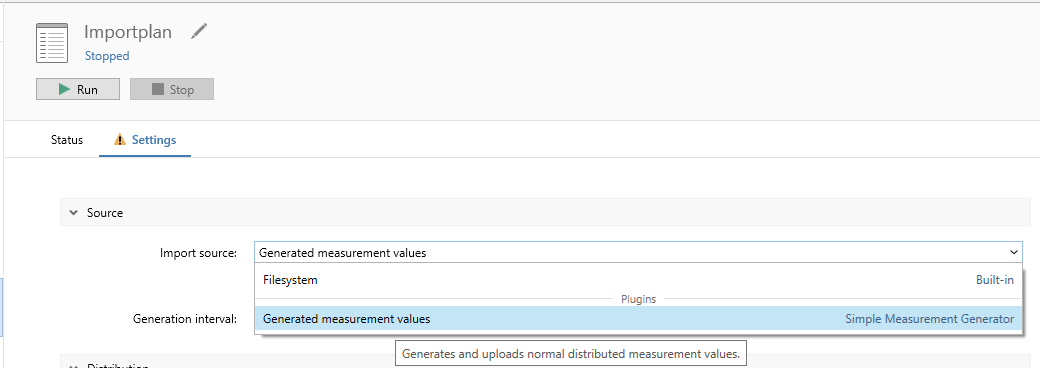
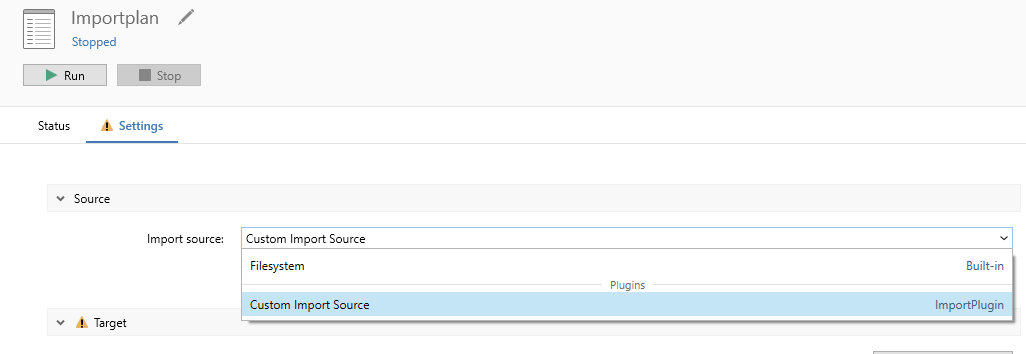
Adds getting started doc

diff --git a/docs/getting_started/5_import_automation.md b/docs/getting_started/5_import_automation.md
@@ -22,64 +22,7 @@ Notizen:
 - Schema mit voller URL auf GitHub bereitstellen
 --->
 
-This chapter describes what is required to create a minimal automation plug-in.
-
-## Manifest
-```json
-{
-  "$schema": "../schemas/manifest.schema.json",
-  "id": "Plugin1816",
-  "version": "1.0.0",
-  "title": "Title for the plugin",
-  "description": "This is a plugin, which is used for showing the manifest in the documentation.",
-  "provides": [
-    {
-      "type": "ImportAutomation",
-      "id": "ImportAutomation1888",
-      "title": "Module title",
-      "description": "Import automation module description."
-    }
-  ]
-}
-```
-The manifest describes your plugin content and defines the modules which are provided.
-
-### Plugin information
-**$schema:** The schema we provide to validate your manifest.\
-**id:** The unique identifier for this plugin. The plugin identifier must be unique overall installed plugins.\
-**version:** Your managed version of the plugin.\
-**title:** Title shown in plugin management view of Auto Importer.\
-<!---Bild einfügen vom plugin management view.-->
-**description:** Description shown in plugin management view of Auto Importer.\
-**provides:** Collection of module information.
-
-### Module information
-**type:** ImportAutomation or ImportFormat, see chapter [Module types]({% link docs/getting_started/3_module_type.md %}) for further information.\
-**id:** Unique identifer for this module, must be unique within the plugin.\
-**title:** Title shown in the module selection of plugin management view of Auto Importer.\
-**description:** Description shown in the module selection of plugin management view of Auto Importer.
-
-## IPlugin and IPluginContext
-IPlugin represents a PiWeb Auto Importer plugin. Here you register your modules with the Auto Importer.
-
-```c#
-using Zeiss.PiWeb.Import.Sdk;
-
-public class Plugin : IPlugin
-{
-    public Task Init(IPluginContext context)
-    {
-        context.RegisterImportAutomation("ImportAutomation19285", new ImportAutomation());
-
-        return Task.CompletedTask;
-    }
-}
-```
-
-**Init:** Initializes the plugin. Usually called during startup of the hosting application while showing a splash screen. Startup finishes when the returned task is completed. *RegisterImportAutomation* on *IPluginContext* is used to register your defined module with the system.
-
-{: .important }
-> The *id* of *RegisterImportAutomation* and *RegisterImportFormat* from *IPluginContext* needs to be identical with your manifest.
+This chapter describes what is required to create a minimal automation plug-in. Please read [Create your first plugin]({% link docs/getting_started/2_first_plugin.md %}) before, as it extends the information from there.
 
 ## IImportAutomation
 Represents a custom import automation provided as part of a plugin. Custom import automations substitute the full Auto Importer import pipeline with custom logic and are available as import sources in an import plan configuration.
@@ -87,55 +30,16 @@ Represents a custom import automation provided as part of a plugin. Custom impor
 ```c#
 using Zeiss.PiWeb.Import.Sdk.Modules.ImportAutomation;
 
-public class ImportAutomation : IImportAutomation
+public class MyImportModule : IImportAutomation
 {
     public Task<IImportRunner> CreateImportRunnerAsync(IImportRunnerContext context)
     {
-        return Task.FromResult<IImportRunner>(new ImportRunner(context));
-    }
-
-    public IAutomationConfiguration CreateConfiguration(IAutomationConfigurationContext context)
-    {
-        return new AutomationConfiguration(context.PropertyStorage);
+        return Task.FromResult<IImportRunner>(new MyImportRunner(context));
     }
 }
 ```
 
 **CreateImportRunnerAsync:** Creates a new import runner instance. An import runner is first created and then executed when an import plan is using this import automation as import source is started. Each import plan is expected to use a separate import runner instance. For this reason this method must never return the same *IImportRunner* instance twice. If the import runner cannot be created (e.g. because of invalid import plan settings), a *CreateImportRunnerException* can be thrown. The created instance will be disposed after the import plan is stopped.
-
-**CreateConfiguration:** Creates a new automation configuration instance. An automation configuration is first created when an import plan uses this import automation as import source. Each import plan is expected to use a separate automation configuration instance. For this reason this method must never return the same *IAutomationConfiguration* instance twice.
-
-## IAutomationConfiguration
-Represents an automation configuration. Automation configurations specify additional settings for an import automation an user can edit to affect the import automation behavior for an import plan.
-
-```c#
-using Zeiss.PiWeb.Import.Sdk.ConfigurationItems;
-using Zeiss.PiWeb.Import.Sdk.Modules.ImportAutomation;
-using Zeiss.PiWeb.Import.Sdk.PropertyStorage;
-
-public class AutomationConfiguration(IPropertyStorage storage) : IAutomationConfiguration
-{
-    private static readonly Section _ItemSection = new() {Title = "Test section", Priority = 0};
-
-    [ConfigurationItem]
-    private BoolConfigurationItem BoolItem { get; } = new BoolConfigurationItem(storage, "BoolDisable", true)
-    {
-        Title = "Use default UI texts",
-        Section = _ItemSection,
-        Tooltip = "If this item is checked the status item provides no text and the default text is used",
-        Priority = 1
-    };
-
-    public void Update()
-    {
-        // Here you can react to updates of configuration items.
-    }
-}
-```
-<!---
-**TODO Priority erklären, niedirg zu hoch**
-**TODO Link zu allen verfügbaren IConfigurationItems (plugin/fundamentals/6 ?)**
---->
 
 ## IImportRunner
 Is responsible for processing the cyclical import and reacting to problems and errors accordingly.

diff --git a/docs/getting_started/2_first_plugin.md b/docs/getting_started/2_first_plugin.md
@@ -13,8 +13,8 @@ Ziele:
 
 Inhalt:
 - C#-Project Template für Plugins nutzen
-        ○ Kurzbeschreibung Manifest-Inhalt und Anpassungen vornehmen (z.B. ID, Autor)
-        ○ IPlugin Implementierung beschreiben
+    - Kurzbeschreibung Manifest-Inhalt und Anpassungen vornehmen (z.B. ID, Autor)
+    - IPlugin Implementierung beschreiben
 - Plugin verwenden
     - Auto Importer mit Plugin und im Developer Mode starten
     - Plugin sollte in der Plugin-Übersicht gelistet sein
@@ -26,3 +26,89 @@ Inhalt:
 - Next steps
     - erwähnen, dass als nächstes Entscheidung bzgl. Modultyp notwendig ist
 --->
+
+This chapter describes what is required to create a minimal plug-in.
+
+## manifest.json
+```json
+{
+    "$schema": "../schemas/manifest.schema.json",
+    "id": "Zeiss.ImportPluginDemo",
+    "version": "1.0.0",
+    "title": "ImportPlugin",
+    "description": "Demonstrates the ability to add import sources to an import plan by implementing import modules.",
+    "author": "Carl Zeiss",
+    "contact": "info.metrology.de@zeiss.com",
+    "homepage": "https://www.zeiss.com/metrology/en/software/zeiss-piweb.html",
+    "issueTracker": "https://github.com/ZEISS-PiWeb/PiWeb-Import-Sdk/issues",
+    "licenseName": "BSD-3-Clause",
+    "licenseUrl": "https://github.com/ZEISS-PiWeb/PiWeb-Import-Sdk/blob/develop/LICENSE.txt",
+    "sourceCode": "https://github.com/ZEISS-PiWeb/PiWeb-Import-Sdk",
+    "documentation": "https://zeiss-piweb.github.io/PiWeb-Import-Sdk",
+    "provides": [
+        {
+            "type": "ImportAutomation",
+            "id": "MyImportModule",
+            "title": "Custom Import Source",
+            "description": "This import module does nothing and is only useful for testing import modules."
+        }
+    ]
+}
+```
+The manifest describes your plugin content and defines the modules which are provided.\
+**manifest.json** has to be in the root of your plugin folder.
+
+### Plugin information
+**$schema:** The schema we provide to validate your manifest.\
+**id:** The unique identifier for this plugin. The plugin identifier must be unique overall installed plugins.\
+**version:** Your managed version of the plugin.\
+**title:** Title shown in plugin management view of Auto Importer.\
+**description:** Description shown in plugin management view of Auto Importer.\
+**provides:** Collection of module information.
+
+![Plugin manifest](../../assets/images/getting_started/2_manifest.png "Plugin manifest")
+
+### Module information
+**type:** ImportAutomation or ImportFormat, see chapter [Choose your module type]({% link docs/getting_started/3_module_type.md %}) for further information.\
+**id:** Unique identifer for this module, must be unique within the plugin.\
+**title:** Title shown in the module selection of plugin management view of Auto Importer.\
+**description:** Description shown in the module selection of plugin management view of Auto Importer.
+
+## Import SDK nuget
+The Import SDK nuget is required for the development of Auto Importer plugins. This can be obtained from TODO.\
+> [!IMPORTANT]
+> Please ensure that this assembly is not copied to the output.
+
+```json
+<PackageReference Include="Zeiss.PiWeb.Import.Sdk" Version="$(ImportSdkNuGetVersion)">
+    <Private>false</Private>
+    <ExcludeAssets>runtime</ExcludeAssets>
+</PackageReference>
+```
+<!-- URL bereitstellen, in offiziellem nuget Feed? -->
+
+## IPlugin and IPluginContext
+IPlugin represents a PiWeb Auto Importer plugin. Here you register your modules with the Auto Importer.
+
+```c#
+using Zeiss.PiWeb.Import.Sdk;
+
+public class Plugin : IPlugin
+{
+    public Task Init(IPluginContext context)
+    {
+        context.RegisterImportAutomation("MyImportModule", new MyImportModule());
+
+        return Task.CompletedTask;
+    }
+}
+```
+> [!NOTE]
+> In this example an ImportAutomation is registered. You can also register ImportFormat, read the next chapter [Choose your module type]({% link docs/getting_started/3_module_type.md %}) for more information.
+
+**Init:** Initializes the plugin. Usually called during startup of the hosting application while showing a splash screen. Startup finishes when the returned task is completed. *RegisterImportAutomation* on *IPluginContext* is used to register your defined module with the system.
+
+> [!IMPORTANT]
+> The *id* of *RegisterImportAutomation* and *RegisterImportFormat* from *IPluginContext* needs to be identical with your manifest.
+
+For an overview of the different module types, please follow the next chapter [Choose your module type]({% link docs/getting_started/3_module_type.md %}).

diff --git a/docs/getting_started/1_setup.md b/docs/getting_started/1_setup.md
@@ -54,8 +54,8 @@ There should be a subfolder for each plugin in this folder. [Read more about str
 To check whether the Auto Importer has loaded the desired plugin, you can go to **File > Plugins...**. There you will see a list of all known plugins and their load status.\
 ![Auto Importer plugin management](../../assets/images/getting_started/1_plugin_states.png "Auto Importer plugin management")
 
-**blue toggle button**: Plugin is active.\
 **gray text "not loaded"**: Plugin is not active. Activate via gray toggle button and restart the application.\
+**blue toggle button**: Plugin is active.\
 **red text "not loaded"**: There was an error with this plugin, it is not active. See [troubleshooting]({% link docs/troubleshooting.md %}) for more information.
 
 Plugins can be activated and deactivated via this view. Only active plugins are loaded when the Auto Importer is started and can therefore be used as an import source.
